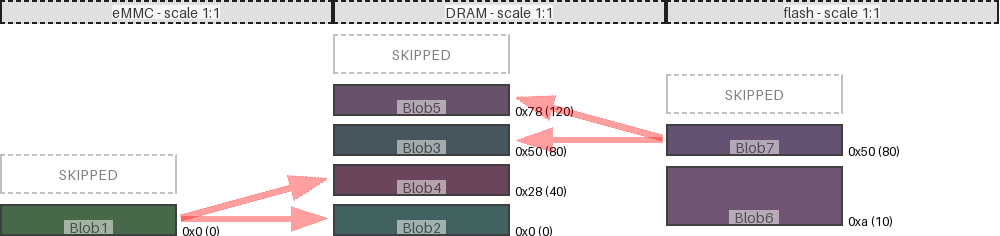
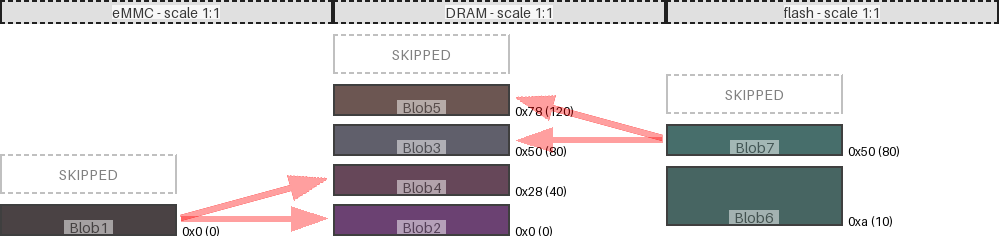
renamed voidthreshold to threshold

diff --git a/mm/diagram.py b/mm/diagram.py
@@ -154,7 +154,7 @@ class MemoryMapDiagram:
             # start adding memregions to the current subgroup...
             redux_subgroup[redux_subgroup_idx].append(memregion)
             # until we hit a empty space larger than the threshold setting
-            if memregion.freespace_as_int > Diagram.model.void_threshold:
+            if memregion.freespace_as_int > Diagram.model.threshold:
                 # add a single void region subgroup at a new index...
                 redux_subgroup_idx = redux_subgroup_idx + 1
                 redux_subgroup[redux_subgroup_idx].append(self.voidregion)
@@ -238,7 +238,7 @@ class Diagram:
         Diagram.model = Diagram._create_model()
 
         logging.info(f"Selected diagram height: {str(Diagram.model.height)}")
-        logging.info(f"Selected diagram void threshold: {str(Diagram.model.void_threshold)}")
+        logging.info(f"Selected diagram void threshold: {str(Diagram.model.threshold)}")
 
         # Create the individual memory map diagrams (full and reduced)
         for mmap_name, mmap in Diagram.model.memory_maps.items():
@@ -393,8 +393,8 @@ class Diagram:
             type=str
         )
         parser.add_argument(
-            "-v",
-            "--voidthreshold",
+            "-t",
+            "--threshold",
             help="The threshold for skipping void sections. Please use hex.",
             type=str,
             default=hex(200)
@@ -425,9 +425,9 @@ class Diagram:
                 raise SystemExit(f"'limit' argument should be in hex format: {str(Diagram.pargs.limit)} = {hex(int(Diagram.pargs.limit))}")
         if not Diagram.pargs.file and not Diagram.pargs.regions:
             raise SystemExit("You must provide either: region string or JSON input file.")
-        if Diagram.pargs.voidthreshold:
-            if not Diagram.pargs.voidthreshold[:2] == "0x":
-                raise SystemExit(f"'voidthreshold' argument should be in hex format: {str(Diagram.pargs.voidthreshold)} = {hex(int(Diagram.pargs.voidthreshold))}")
+        if Diagram.pargs.threshold:
+            if not Diagram.pargs.threshold[:2] == "0x":
+                raise SystemExit(f"'threshold' argument should be in hex format: {str(Diagram.pargs.threshold)} = {hex(int(Diagram.pargs.threshold))}")
 
         # make sure the output path is valid and parent dir exists
         if not pathlib.Path(Diagram.pargs.out).suffix == ".md":
@@ -461,7 +461,7 @@ class Diagram:
                 "name": "Diagram",
                 "height": int(Diagram.pargs.limit,16),
                 "width": 400,
-                "void_threshold": int(Diagram.pargs.voidthreshold, 16),
+                "threshold": int(Diagram.pargs.threshold, 16),
                 "memory_maps": { 
                     mmname : { 
                         "height": int(Diagram.pargs.limit,16),

diff --git a/tests/test_args.py b/tests/test_args.py
@@ -162,7 +162,7 @@ def test_voidthresh_arg():
         ["mm.diagram", 
          "a", "0x10", "0x10", 
          "-l", hex(1000),
-         "-v", "1000"
+         "-t", "1000"
         ]
     ):
         
@@ -174,7 +174,7 @@ def test_voidthresh_arg():
         ["mm.diagram", 
          "a", "0x10", "0x10", 
          "-l", hex(1000),
-         "-v", "0x3e8"
+         "-t", "0x3e8"
         ]
     ):
         
@@ -210,9 +210,9 @@ def test_default_limit_arg_format(file_setup):
         mm.diagram.Diagram()
         default_limit = mm.diagram.Diagram.pargs.limit
 
-        # this test assumes the default 'voidthreshold' is 0x3e8 (1000)
-        assert mm.diagram.Diagram.pargs.voidthreshold == hex(200)
-        assert not mm.diagram.Diagram.pargs.voidthreshold == 200
+        # this test assumes the default 'threshold' is 0x3e8 (1000)
+        assert mm.diagram.Diagram.pargs.threshold == hex(200)
+        assert not mm.diagram.Diagram.pargs.threshold == 200
 
         assert file_setup["report"].exists()
 
@@ -259,7 +259,7 @@ def test_input_file(caplog):
             "mm.diagram", 
             "-f", "input.json",
             "-l", hex(1000),
-            "-v", hex(500)
+            "-t", hex(500)
         ]
     ):        
         with pytest.raises(SystemExit):
@@ -274,7 +274,7 @@ def test_input_file(caplog):
             "mm.diagram", 
             "-f", "doc/example/input.json",
             "-l", hex(1000),
-            "-v", hex(500)
+            "-t", hex(500)
         ]
     ):        
         with caplog.at_level(logging.WARNING):
@@ -290,7 +290,7 @@ def test_input_file(caplog):
             "mm.diagram", 
             "a", "0x10", "0x10",
             "-l", hex(1000),
-            "-v", hex(500)
+            "-t", hex(500)
         ]
     ):
 

diff --git a/tests/test_docs.py b/tests/test_docs.py
@@ -21,7 +21,7 @@ def test_generate_doc_example_normal(file_setup):
             "dtb", "0x190", "0x30",
             "-o", str(file_setup["report"]),
             "-l", hex(height),
-            "-v", hex(200),
+            "-t", hex(200),
         ],
     ):
 
@@ -64,7 +64,7 @@ def test_generate_doc_example_collisions(file_setup):
             "dtb", "0x90", "0x30",
             "-o", str(file_setup["report"]),
             "-l", height,
-            "-v", hex(200),
+            "-t", hex(200),
         ],
     ):
 
@@ -119,7 +119,7 @@ def test_generate_doc_example_two_maps(input, file_setup):
                 "-f", str(input_file),
                 "-o", str(file_setup["report"]),
                 "-l", hex(height),
-                "-v", hex(200),
+                "-t", hex(200),
             ],
         ):
 
@@ -195,7 +195,7 @@ def test_generate_doc_example_three_maps(input, file_setup):
                 "-f", str(input_file),
                 "-o", str(file_setup["report"]),
                 "-l", hex(height),
-                "-v", hex(200),
+                "-t", hex(200),
             ],
         ):
 
@@ -222,7 +222,7 @@ def test_generate_doc_zynqmp_example(file_setup, zynqmp):
                 "mm.diagram",
                 "-f", str(input_file),
                 "-o", str(file_setup["report"]),
-                "-v", hex(100),
+                "-t", hex(100),
                 "-l", hex(1000),
             ],
         ):
@@ -243,7 +243,7 @@ def test_generate_doc_zynqmp_large_example(file_setup, zynqmp_large):
                 "mm.diagram",
                 "-f", str(input_file),
                 "-o", str(file_setup["report"]),
-                "-v", hex(100)
+                "-t", hex(100)
             ],
         ):
 

diff --git a/tests/test_void_regions.py b/tests/test_void_regions.py
@@ -26,7 +26,7 @@ def test_void_region_default(file_setup):
         d = mm.diagram.Diagram()
 
         # assumes the defaults haven't changed
-        assert mm.diagram.Diagram.pargs.voidthreshold == hex(200)
+        assert mm.diagram.Diagram.pargs.threshold == hex(200)
 
         for region_image in d.mmd_list[0].image_list:
             if region_image.name == "kernel":
@@ -64,7 +64,7 @@ def test_void_region_uservalue_500(file_setup):
             "dtb", "0x190", "0x30",
             "-o", str(file_setup["report"]),
             "-l", hex(height),
-            "-v", hex(500),
+            "-t", hex(500),
         ],
     ):
 
@@ -107,7 +107,7 @@ def test_void_region_uservalue_1000(file_setup):
             "dtb", "0x190", "0x30",
             "-o", str(file_setup["report"]),
             "-l", hex(height),
-            "-v", hex(1000),
+            "-t", hex(1000),
         ],
     ):
 

diff --git a/mm/metamodel.py b/mm/metamodel.py
@@ -218,7 +218,7 @@ class Diagram(ConfigParent):
             exclude=True
         )
     ]
-    void_threshold: Annotated[
+    threshold: Annotated[
         int | str,
         pydantic.Field(
             hex(200),
@@ -226,7 +226,7 @@ class Diagram(ConfigParent):
         )
     ]
 
-    @pydantic.field_validator("void_threshold", mode="before")
+    @pydantic.field_validator("threshold", mode="before")
     @classmethod
     def convert_str_to_int(cls, v: str):
         if isinstance(v, str):

diff --git a/tests/test_distance.py b/tests/test_distance.py
@@ -3,7 +3,7 @@ import unittest
 import mm.image
 
 # These tests only check the distance between adjacent regions
-# They don't check the output image sizes so we don't care what value we set to the voidthreshold.
+# They don't check the output image sizes so we don't care what value we set to the threshold.
 
 
 def test_distance_three_regions_same_size_no_collisions():

diff --git a/README.md b/README.md
@@ -19,6 +19,8 @@ More examples can be found in [doc/example/main.md](doc/example/main.md)
 ```
 usage: diagram.py [-h] [-o OUT] [-l LIMIT] [-s SCALE] [-v VOIDTHRESHOLD] [regions ...]
 
+usage: diagram.py [-h] [-o OUT] [-l LIMIT] [-t THRESHOLD] [-n NAME] [-f FILE] [regions ...]
+
 Generate a diagram showing how binary regions co-exist within memory.
 
 positional arguments:
@@ -28,9 +30,13 @@ options:
   -h, --help            show this help message and exit
   -o OUT, --out OUT     path to the markdown output report file. Default: "out/report.md"
   -l LIMIT, --limit LIMIT
-                        The maximum height for the diagram. Memory regions exceeding this height will be scaled to fit. Please use hex. Default: 0x3e8 (1000)
-  -v VOIDTHRESHOLD, --voidthreshold VOIDTHRESHOLD
-                        The threshold for skipping void sections. Please use hex. Default: 0x3e8 (1000)
+                        The height for the diagram. Please use hex. Memory regions exceeding this height will be
+                        scaled to fit. Ignored when using JSON file input.
+  -t THRESHOLD, --threshold THRESHOLD
+                        The threshold for skipping void sections. Please use hex.
+  -n NAME, --name NAME  Provide a name for the memory map. Ignored when JSON file is provided.
+  -f FILE, --file FILE  JSON input file for multiple memory maps (and links) support. Please see
+                        doc/example/input.json for help.
 ```
 
 - Generate five regions called `kernel`, `rootfs`, `dtb`, `uboot` and `uboot-scr` where four of the five regions intersect/collide. The default report output path is used. Diagram output is shown at the top of the page.

diff --git a/doc/example/test_generate_doc_example_three_maps.md b/doc/example/test_generate_doc_example_three_maps.md
@@ -1,10 +1,10 @@
 ![memory map diagram](test_generate_doc_example_three_maps_redux.png)
 |map|region|origin|size|free Space|collisions|links|draw scale|
 |:-|:-|:-|:-|:-|:-|:-|:-|
-|DRAM|<span style='color:(53, 25, 57)'>Blob5</span>|0x78 (120)|0x20 (32)|0x350 (848)|||1:1|
-|DRAM|<span style='color:(10, 30, 41)'>Blob3</span>|0x50 (80)|0x20 (32)|0x8 (8)|||1:1|
-|flash|<span style='color:(50, 24, 66)'>Blob7</span>|0x50 (80)|0x20 (32)|0x378 (888)||('DRAM', 'Blob3')<BR>('DRAM', 'Blob5')|1:1|
-|DRAM|<span style='color:(59, 8, 37)'>Blob4</span>|0x28 (40)|0x20 (32)|0x8 (8)|||1:1|
-|flash|<span style='color:(65, 29, 68)'>Blob6</span>|0xa (10)|0x3c (60)|0xa (10)|||1:1|
-|eMMC|<span style='color:(11, 55, 13)'>Blob1</span>|0x0 (0)|0x20 (32)|0x3c8 (968)||('DRAM', 'Blob2')<BR>('DRAM', 'Blob4')|1:1|
-|DRAM|<span style='color:(2, 47, 44)'>Blob2</span>|0x0 (0)|0x20 (32)|0x8 (8)|||1:1|
+|DRAM|<span style='color:(60, 31, 25)'>Blob5</span>|0x78 (120)|0x20 (32)|0x350 (848)|||1:1|
+|DRAM|<span style='color:(44, 43, 58)'>Blob3</span>|0x50 (80)|0x20 (32)|0x8 (8)|||1:1|
+|flash|<span style='color:(10, 62, 58)'>Blob7</span>|0x50 (80)|0x20 (32)|0x378 (888)||('DRAM', 'Blob3')<BR>('DRAM', 'Blob5')|1:1|
+|DRAM|<span style='color:(52, 11, 34)'>Blob4</span>|0x28 (40)|0x20 (32)|0x8 (8)|||1:1|
+|flash|<span style='color:(11, 51, 46)'>Blob6</span>|0xa (10)|0x3c (60)|0xa (10)|||1:1|
+|eMMC|<span style='color:(15, 4, 6)'>Blob1</span>|0x0 (0)|0x20 (32)|0x3c8 (968)||('DRAM', 'Blob2')<BR>('DRAM', 'Blob4')|1:1|
+|DRAM|<span style='color:(59, 2, 68)'>Blob2</span>|0x0 (0)|0x20 (32)|0x8 (8)|||1:1|

diff --git a/doc/example/test_generate_doc_example_two_maps.md b/doc/example/test_generate_doc_example_two_maps.md
@@ -1,8 +1,8 @@
 ![memory map diagram](test_generate_doc_example_two_maps_redux.png)
 |map|region|origin|size|free Space|collisions|links|draw scale|
 |:-|:-|:-|:-|:-|:-|:-|:-|
-|eMMC|<span style='color:(48, 26, 68)'>Blob4</span>|0x100 (256)|0x10 (16)|0x2d8 (728)|||1:1|
-|DRAM|<span style='color:(42, 37, 17)'>Blob3</span>|0x50 (80)|0x10 (16)|0x388 (904)|||1:1|
-|DRAM|<span style='color:(29, 32, 32)'>Blob5</span>|0x30 (48)|0x10 (16)|0x10 (16)|||1:1|
-|eMMC|<span style='color:(27, 47, 27)'>Blob1</span>|0x10 (16)|0x10 (16)|0xe0 (224)||('DRAM', 'Blob2')<BR>('DRAM', 'Blob3')|1:1|
-|DRAM|<span style='color:(45, 27, 54)'>Blob2</span>|0x10 (16)|0x10 (16)|0x10 (16)|||1:1|
+|eMMC|<span style='color:(60, 67, 60)'>Blob4</span>|0x100 (256)|0x10 (16)|0x2d8 (728)|||1:1|
+|DRAM|<span style='color:(2, 59, 10)'>Blob3</span>|0x50 (80)|0x10 (16)|0x388 (904)|||1:1|
+|DRAM|<span style='color:(26, 65, 56)'>Blob5</span>|0x30 (48)|0x10 (16)|0x10 (16)|||1:1|
+|eMMC|<span style='color:(40, 54, 13)'>Blob1</span>|0x10 (16)|0x10 (16)|0xe0 (224)||('DRAM', 'Blob2')<BR>('DRAM', 'Blob3')|1:1|
+|DRAM|<span style='color:(31, 35, 52)'>Blob2</span>|0x10 (16)|0x10 (16)|0x10 (16)|||1:1|

diff --git a/doc/example/test_generate_doc_zynqmp_example.md b/doc/example/test_generate_doc_zynqmp_example.md
@@ -1,6 +1,6 @@
 ![memory map diagram](test_generate_doc_zynqmp_example_redux.png)
 |map|region|origin|size|free Space|collisions|links|draw scale|
 |:-|:-|:-|:-|:-|:-|:-|:-|
-|Global System Address Map|<span style='color:(14, 49, 36)'>OCM</span>|0x7e0 (2016)|0x7d0 (2000)|0x1d8 (472)|||2:1|
-|Global System Address Map|<span style='color:(29, 23, 21)'>DDR Memory Controller</span>|0x10 (16)|0x3e8 (1000)|0x3e8 (1000)|||2:1|
-|Flash|<span style='color:(23, 60, 67)'>Boot Image</span>|0x0 (0)|0x7d0 (2000)|0x1e0 (480)||('Global System Address Map', 'OCM')|1:1|
+|Global System Address Map|<span style='color:(39, 49, 14)'>OCM</span>|0x7e0 (2016)|0x7d0 (2000)|0x1d8 (472)|||2:1|
+|Global System Address Map|<span style='color:(56, 51, 43)'>DDR Memory Controller</span>|0x10 (16)|0x3e8 (1000)|0x3e8 (1000)|||2:1|
+|Flash|<span style='color:(12, 33, 3)'>Boot Image</span>|0x0 (0)|0x7d0 (2000)|0x1e0 (480)||('Global System Address Map', 'OCM')|1:1|

diff --git a/doc/example/test_generate_doc_example_collisions.md b/doc/example/test_generate_doc_example_collisions.md
@@ -1,6 +1,6 @@
 ![memory map diagram](test_generate_doc_example_collisions_redux.png)
 |map|region|origin|size|free Space|collisions|links|draw scale|
 |:-|:-|:-|:-|:-|:-|:-|:-|
-|Untitled|<span style='color:(11, 32, 26)'>dtb</span>|0x90 (144)|0x30 (48)|0x328 (808)| rootfs @ 0x90 ||1:1|
-|Untitled|<span style='color:(19, 17, 33)'>rootfs</span>|0x50 (80)|0x50 (80)|-0x10 (-16)| kernel @ 0x50 <BR> dtb @ 0x90 ||1:1|
-|Untitled|<span style='color:(9, 37, 2)'>kernel</span>|0x10 (16)|0x60 (96)|-0x20 (-32)| rootfs @ 0x50 ||1:1|
+|Untitled|<span style='color:(42, 35, 26)'>dtb</span>|0x90 (144)|0x30 (48)|0x328 (808)| rootfs @ 0x90 ||1:1|
+|Untitled|<span style='color:(41, 1, 55)'>rootfs</span>|0x50 (80)|0x50 (80)|-0x10 (-16)| kernel @ 0x50 <BR> dtb @ 0x90 ||1:1|
+|Untitled|<span style='color:(55, 39, 67)'>kernel</span>|0x10 (16)|0x60 (96)|-0x20 (-32)| rootfs @ 0x50 ||1:1|

diff --git a/doc/example/test_generate_doc_example_normal.md b/doc/example/test_generate_doc_example_normal.md
@@ -1,6 +1,6 @@
 ![memory map diagram](test_generate_doc_example_normal_redux.png)
 |map|region|origin|size|free Space|collisions|links|draw scale|
 |:-|:-|:-|:-|:-|:-|:-|:-|
-|Untitled|<span style='color:(62, 28, 3)'>dtb</span>|0x190 (400)|0x30 (48)|0x228 (552)|||1:1|
-|Untitled|<span style='color:(34, 21, 13)'>rootfs</span>|0x50 (80)|0x30 (48)|0x110 (272)|||1:1|
-|Untitled|<span style='color:(7, 55, 65)'>kernel</span>|0x10 (16)|0x30 (48)|0x10 (16)|||1:1|
+|Untitled|<span style='color:(58, 16, 26)'>dtb</span>|0x190 (400)|0x30 (48)|0x228 (552)|||1:1|
+|Untitled|<span style='color:(50, 6, 32)'>rootfs</span>|0x50 (80)|0x30 (48)|0x110 (272)|||1:1|
+|Untitled|<span style='color:(13, 3, 27)'>kernel</span>|0x10 (16)|0x30 (48)|0x10 (16)|||1:1|
